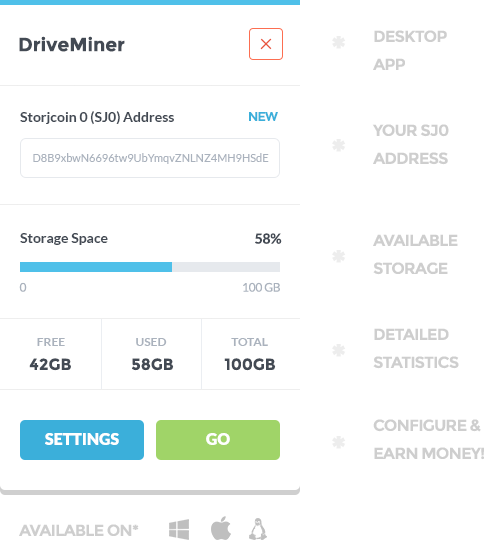
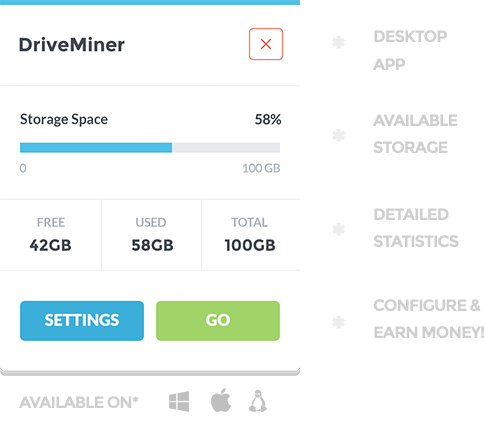
DriveMiner preview update - Fix #42
Plus additional responsive style fixes.

diff --git a/css/style.css b/css/style.css
@@ -406,14 +406,19 @@ a {
 
 .apps-driveminer {
   background: url('../img/preview-driveminer.png');
-  background-size: 484px 540px;
+  background-size: 484px 432px;
   background-repeat: no-repeat;
-  height: 540px;
+  height: 432px;
   margin-top: 40px;
 }
 
 .apps-section .btn {
   margin-top: 20px;
+}
+
+.separator {
+  margin: 100px 0 70px;
+  border-bottom: 1px dashed #ccc;
 }
 
 /*
@@ -680,7 +685,7 @@ a {
   }
   .apps-driveminer {
     background: url('../img/preview-driveminer@2x.png');
-    background-size: 484px 540px;
+    background-size: 484px 432px;
     background-repeat: no-repeat;
   } 
 }
@@ -711,6 +716,9 @@ a {
   }
   .description {
     padding:5px 20px 5px 0;
+  }
+  .separator {
+    margin: 60px 0 30px;
   }
 }
 
@@ -756,7 +764,9 @@ a {
     margin: 0 10px;
     font-size: 12px;
   }
-
+  .separator {
+    margin: 40px 0 20px;
+  }
 }
 
 @media only screen and (min-width: 560px) and (max-width: 990px) {
@@ -879,7 +889,24 @@ a {
     text-align: left;
     margin-top: 30px;
   }
-
+  .description {
+    padding: 5px 10px 5px 0;
+    font-size: 16px;
+    margin-top: 10px;
+    line-height: 28px;
+  }
+  .apps-section {
+    padding: 20px 10px 60px;
+  }
+  .contact {
+    padding: 50px 10px;
+  }
+  .div-sm {
+    padding: 15px;
+  }
+  .footer {
+    padding: 50px 25px;
+  }
 }
 
 @media only screen and (max-width: 480px) {
@@ -959,11 +986,11 @@ a {
   }
   .apps-metadisk {
     background-size: contain;
-    height: 260px;
+    height: 220px;
   }
   .apps-driveminer {
     background-size: contain;
-    height: 350px;
+    height: 300px;
   }
   .div-sm {
     padding: 10px;

diff --git a/index.html b/index.html
@@ -142,7 +142,7 @@
             <div class="apps-driveminer"></div>
           </div>
         </div>
-        <div class="div-sm"></div>
+        <div class="separator"></div>
         <div class="row">
           <div class="col-xs-12 col-sm-6 col-md-5 col-md-push-7 col-lg-6 col-lg-push-6">
             <h3 class="title">Metadisk</h3>
